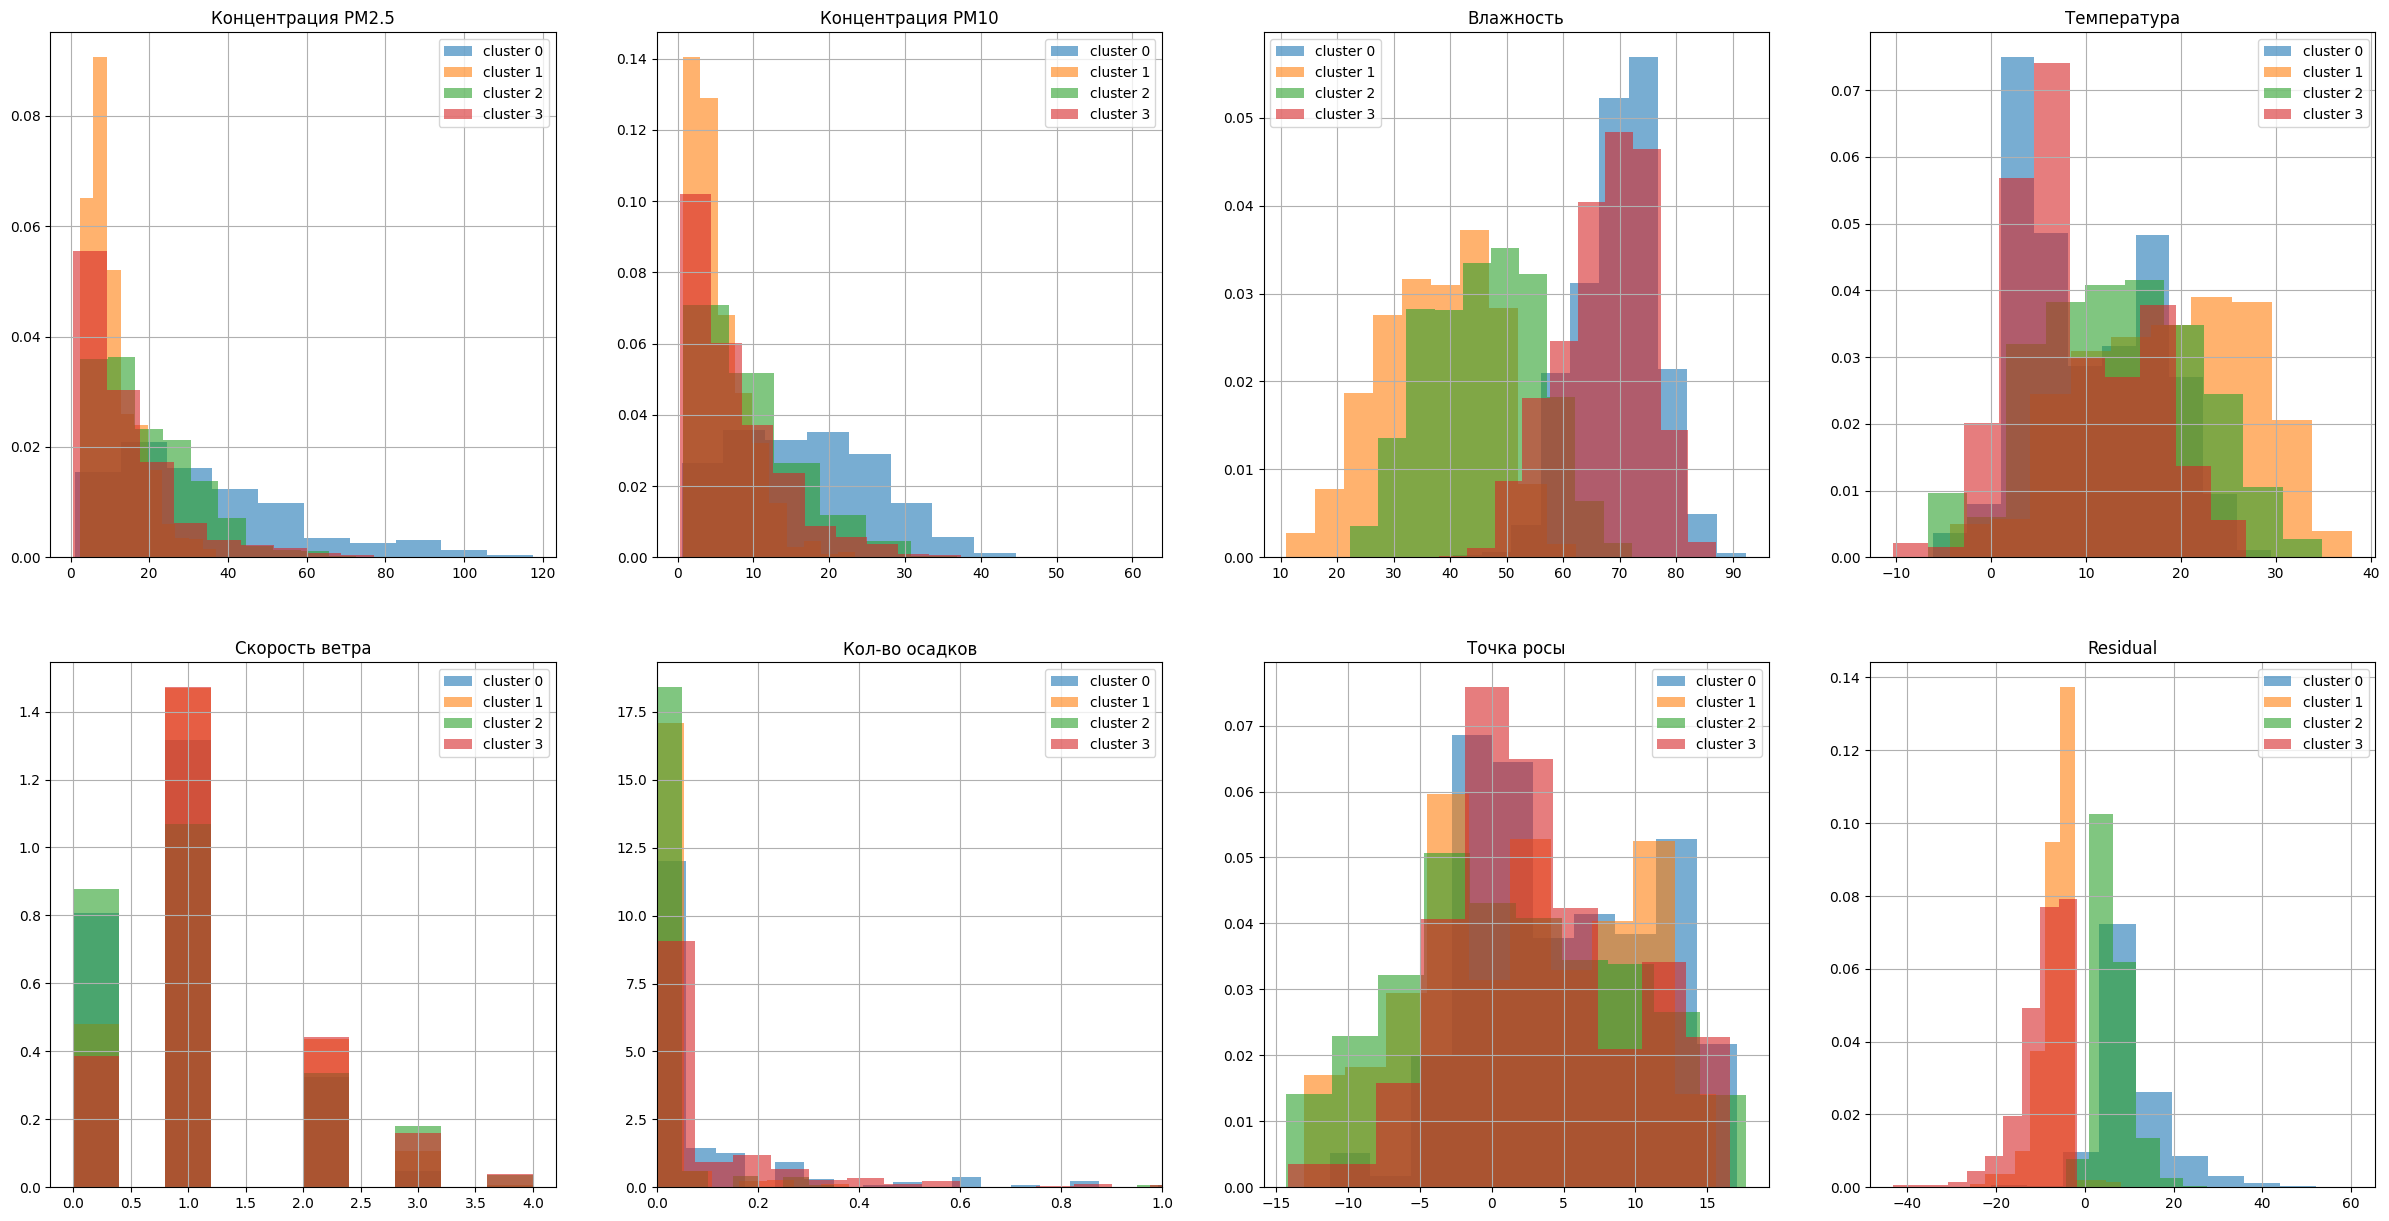
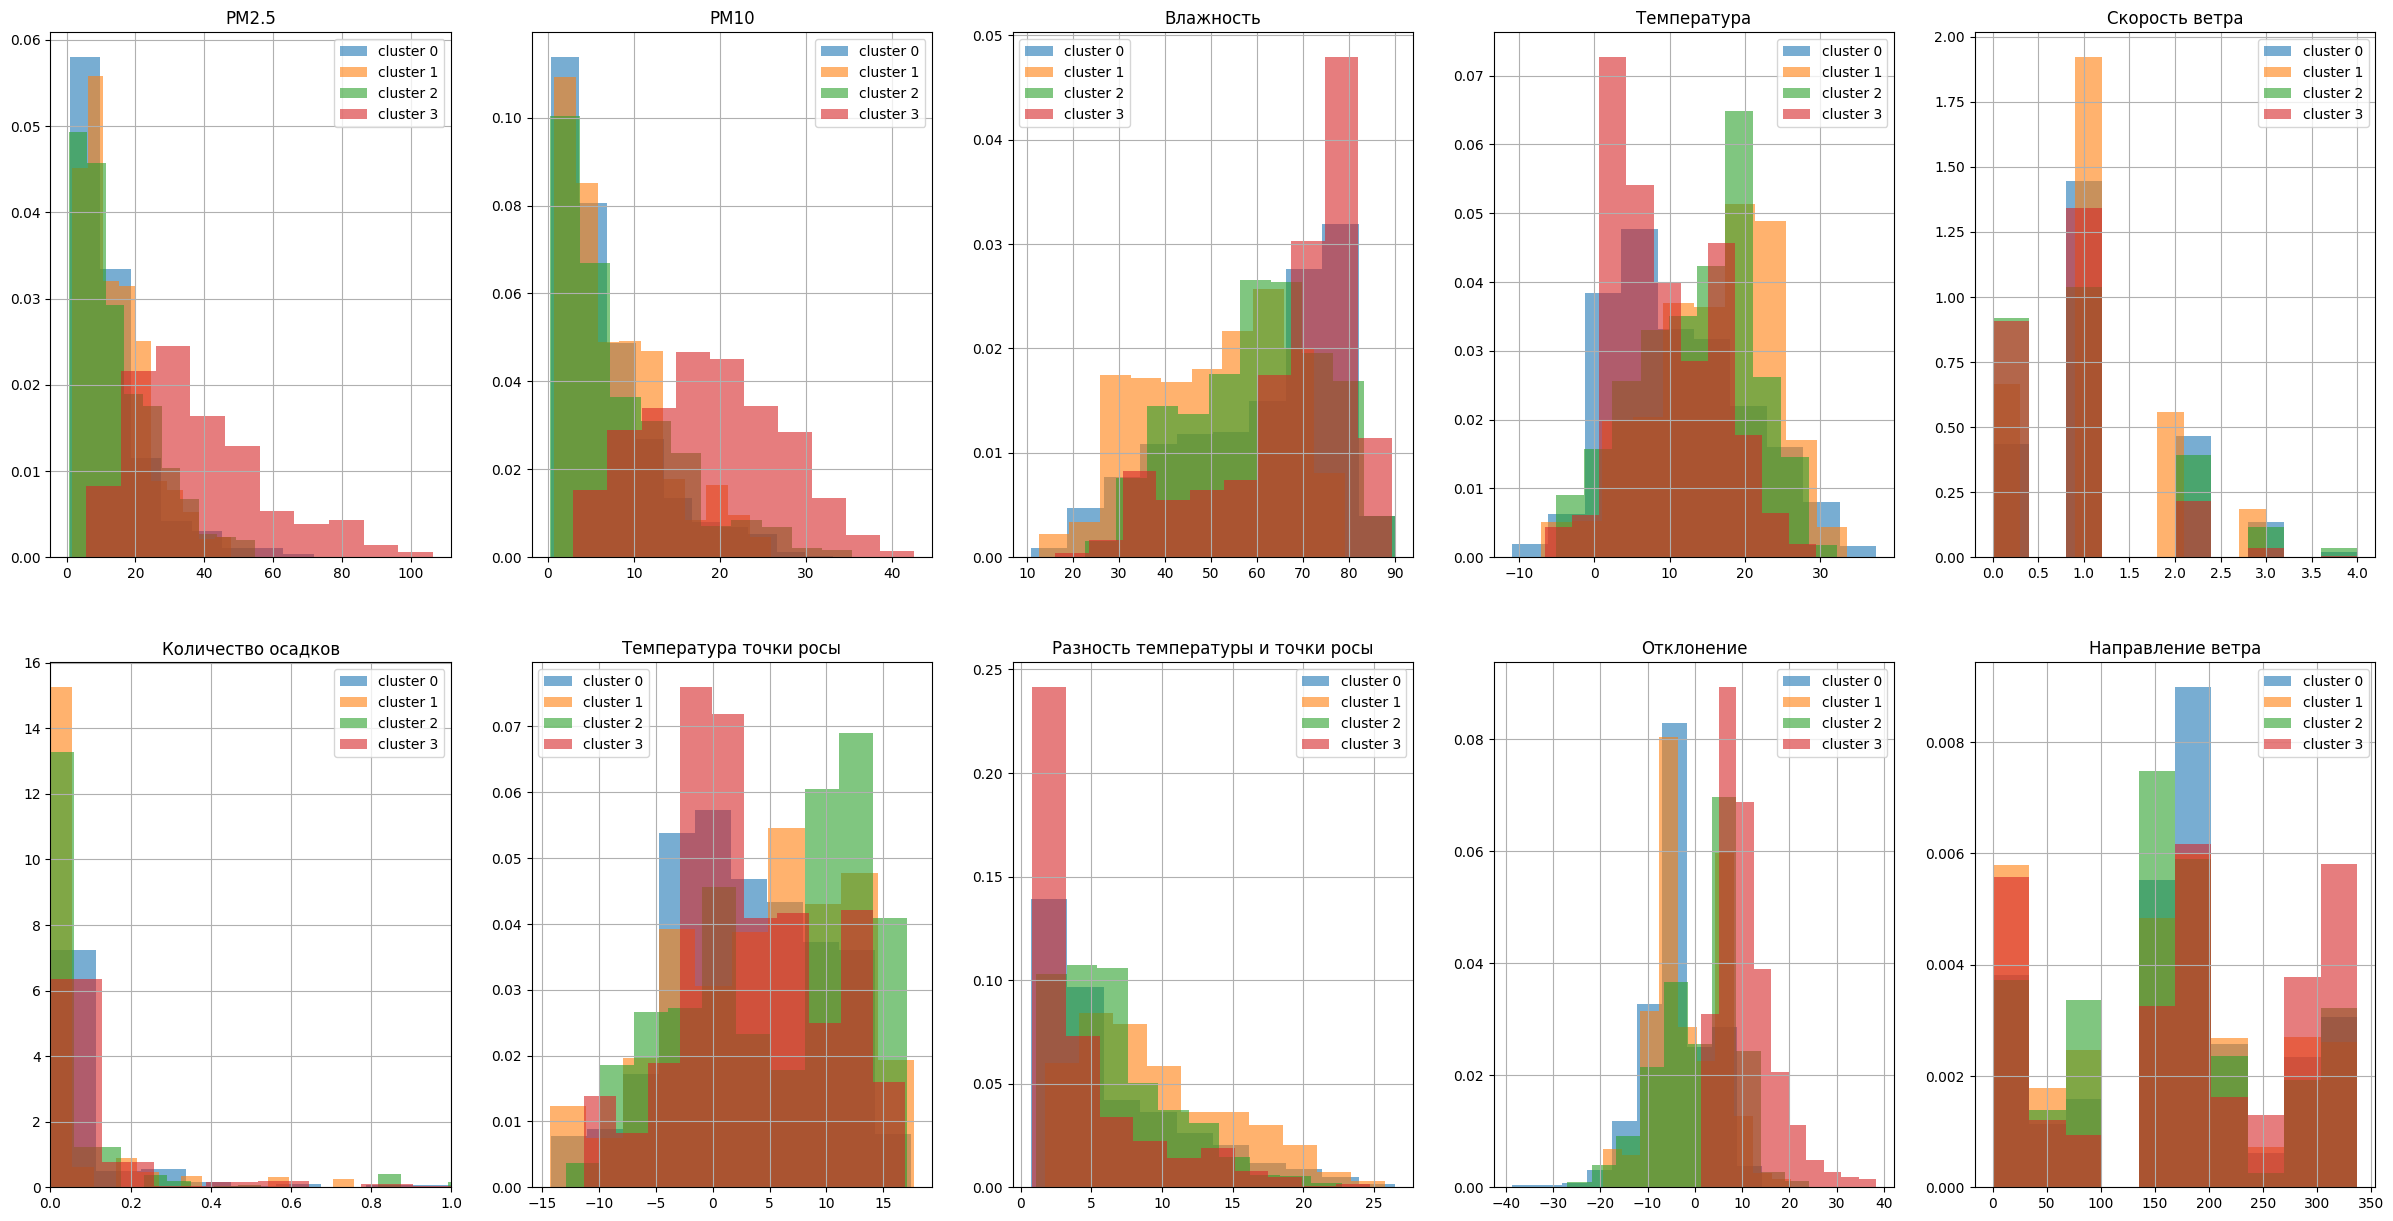
new anomaly extraction

diff --git a/src/model/extract_anomalies.py b/src/model/extract_anomalies.py
@@ -1,35 +1,112 @@
 import pickle
 import pandas as pd
-import datetime
+import matplotlib.pyplot as plt
+from typing import List
 
-from src.model.anom_clustering import AnomalyCluster
-from src.features.preproc_anom import prepare_features
+from src.model.anom_clustering import Model, num_clusters, sensor_columns, meteo_columns
+from src.features.preproc_anom import prepare_sensors_data, prepare_meteo_data
+
+data_file = 'DATA/processed/dataset.csv'
+dim_red_file = 'models/anomalies/dim_red.obj'
+clustering_file = 'models/anomalies/clustering.obj'
+map_file = 'models/anomalies/cluster_map.obj'
 
 
-def extract_anom(data_file: str, pca_model, kmean_model):
-    anom_clustering = AnomalyCluster(kmean_model, pca_model)
+def plot_distribution(anomalies):
+    n_clast = num_clusters
+    f, axs = plt.subplots(2, 5, figsize=(30, 15))
+    for i in range(n_clast):
+        anomalies[anomalies.cluster == i].P1_filtr_mean.hist(ax=axs[0, 0], alpha=0.6, label=f'cluster {i}',
+                                                             density=True)
+    axs[0, 0].set_title('PM2.5')
+    axs[0, 0].legend(loc='best')
+
+    for i in range(n_clast):
+        anomalies[anomalies.cluster == i].P2_filtr_mean.hist(ax=axs[0, 1], alpha=0.6, label=f'cluster {i}',
+                                                             density=True)
+    axs[0, 1].set_title('PM10')
+    axs[0, 1].legend(loc='best')
+
+    for i in range(n_clast):
+        anomalies[anomalies.cluster == i].humidity_filtr_mean.hist(ax=axs[0, 2], alpha=0.6, label=f'cluster {i}',
+                                                                   density=True)
+    axs[0, 2].set_title('Влажность')
+    axs[0, 2].legend(loc='best')
+
+    for i in range(n_clast):
+        anomalies[anomalies.cluster == i].temperature_filtr_mean.hist(ax=axs[0, 3], alpha=0.6, label=f'cluster {i}',
+                                                                      density=True)
+    axs[0, 3].set_title('Температура')
+    axs[0, 3].legend(loc='best')
+
+    for i in range(n_clast):
+        anomalies[anomalies.cluster == i].wind_speed.hist(ax=axs[0, 4], bins=10, alpha=0.6, label=f'cluster {i}',
+                                                          density=True)
+    axs[0, 4].set_title('Скорость ветра')
+    axs[0, 4].legend(loc='best')
+
+    for i in range(n_clast):
+        anomalies[anomalies.cluster == i].prec_amount.hist(ax=axs[1, 0], bins=20, alpha=0.6, label=f'cluster {i}',
+                                                           density=True)
+    axs[1, 0].set_title('Количество осадков')
+    axs[1, 0].set_xlim([0, 1])
+    axs[1, 0].legend(loc='best')
+
+    for i in range(n_clast):
+        anomalies[anomalies.cluster == i].dew_point_temp.hist(ax=axs[1, 1], alpha=0.6, label=f'cluster {i}',
+                                                              density=True)
+    axs[1, 1].set_title('Температура точки росы')
+    axs[1, 1].legend(loc='best')
+
+    for i in range(n_clast):
+        anomalies[anomalies.cluster == i].dew_point_diff.hist(ax=axs[1, 2], alpha=0.6, label=f'cluster {i}',
+                                                              density=True)
+    axs[1, 2].set_title('Разность температуры и точки росы')
+    axs[1, 2].legend(loc='best')
+
+    for i in range(n_clast):
+        anomalies[anomalies.cluster == i].resid.hist(ax=axs[1, 3], alpha=0.6, label=f'cluster {i}', density=True)
+    axs[1, 3].set_title('Отклонение')
+    axs[1, 3].legend(loc='best')
+
+    for i in range(n_clast):
+        anomalies[anomalies.cluster == i].wind_direction.hist(ax=axs[1, 4], alpha=0.6, label=f'cluster {i}',
+                                                              density=True)
+    axs[1, 4].set_title('Направление ветра')
+    axs[1, 4].legend(loc='best')
+    plt.savefig('src/web/client/application/static/images/clusters_distribution.png',
+                clear=True, bbox_inches='tight')
+
+
+def extract_anom(data: pd.DataFrame, model: Model) -> (pd.DataFrame, List[pd.DataFrame]):
+    weeks = [g for n, g in data.groupby(pd.Grouper(freq='7D'))]  # split dataset by 7 days series
+    results = []
+    anom_data = []
+    for week in weeks[:-2]:
+        clusters, anomalies = model.predict(week)
+        results.append(clusters)
+        anom_data += anomalies
+    result = pd.concat(results, axis=0)
+    return result, anom_data
+
+
+def main():
     data = pd.read_csv(data_file, parse_dates=['date'])
     data = data.set_index('date')
-    data = prepare_features(data)
-    anom_list = list()
-    weeks = [g for n, g in data.groupby(pd.Grouper(freq='7D'))]  # split dataset by 7 days series
-    for week in weeks[:-2]:
-        anom = anom_clustering.get_anomaly(week)
-        clusters = anom_clustering.get_clusters(anom)
-        for i in range(len(anom)):
-            anom_list.append({'start_date': anom[i].index[0].to_pydatetime(),
-                              'end_date': anom[i].index[-1].to_pydatetime(),
-                              'cluster': clusters[i]})
-    return anom_list
+    data = prepare_sensors_data(data, sensor_columns)
+    data = prepare_meteo_data(data, meteo_columns)
+    with open(dim_red_file, 'rb') as pca_file, open(clustering_file, 'rb') as km_file, open(map_file, 'rb') as m_file:
+        pca = pickle.load(pca_file)
+        kmean = pickle.load(km_file)
+        cluster_map = pickle.load(m_file)
+        model = Model(pca, kmean, cluster_map)
+    anomalies, anom_data = extract_anom(data, model)
+    anomalies.to_csv('DATA/processed/anomalies.csv', index=False)
+    for i in range(len(anomalies)):
+        anom_data[i]['cluster'] = anomalies.iloc[i]['cluster']
+    anom_data = pd.concat(anom_data, axis=0)
+    plot_distribution(anom_data)
 
 
 if __name__ == '__main__':
-    data_path = 'DATA/processed/dataset.csv'
-    pca_model_file = 'models/pca.obj'
-    kmean_model_file = 'models/kmean.obj'
-    with open(pca_model_file, 'rb') as pca_f, open(kmean_model_file, 'rb') as km_f:
-        km = pickle.load(km_f)
-        pca = pickle.load(pca_f)
-        anomalies = extract_anom(data_path, pca, km)
-        df = pd.DataFrame(anomalies)
-        df.to_csv('DATA/processed/anomalies.csv', index=False)
+    main()

diff --git a/src/model/anom_clustering.py b/src/model/anom_clustering.py
@@ -6,7 +6,7 @@ import numpy as np
 from sklearn.decomposition import PCA
 from sklearn.cluster import KMeans
 from sklearn.metrics import silhouette_score
-import typing
+from typing import List
 import warnings
 
 from src.features.preproc_anom import prepare_meteo_data, prepare_sensors_data, add_features
@@ -34,7 +34,7 @@ PCA_n_components = 3
 num_clusters = 4
 
 
-def anom_detector(time_series: pd.DataFrame, freq=round(60 * 25 / 5), quant=0.85) -> typing.List[pd.DataFrame]:
+def anom_detector(time_series: pd.DataFrame, freq=round(60 * 25 / 5), quant=0.85) -> List[pd.DataFrame]:
     """
     Anomaly detection by time-series decomposition.
     :param time_series: to series for anomaly search
@@ -65,7 +65,7 @@ def anom_detector(time_series: pd.DataFrame, freq=round(60 * 25 / 5), quant=0.85
     return ls
 
 
-def detect_anomalies(data: pd.DataFrame) -> typing.List[pd.DataFrame]:
+def detect_anomalies(data: pd.DataFrame) -> List[pd.DataFrame]:
     """
     Anomaly detection by time series decomposition
     :param data: preprocessed data (see src/features/prerpoc_anom.py)
@@ -81,7 +81,7 @@ def detect_anomalies(data: pd.DataFrame) -> typing.List[pd.DataFrame]:
     return anom_list
 
 
-def get_anomaly_features(anom_list: typing.List[pd.DataFrame]) -> pd.DataFrame:
+def get_anomaly_features(anom_list: List[pd.DataFrame]) -> pd.DataFrame:
     anomdata = pd.DataFrame(index=[i for i in range(len(anom_list))])
     anomdata['resid_change'] = [i.loc[i.resid.abs().idxmax()].resid -
                                 i.loc[i.resid.abs().idxmin()].resid for i in anom_list]
@@ -158,7 +158,7 @@ class Model:
         data = add_features(data)
         return data[sel_columns]
 
-    def predict(self, data: pd.DataFrame) -> pd.DataFrame:
+    def predict(self, data: pd.DataFrame) -> (pd.DataFrame, List[pd.DataFrame]):
         data = self._prepare_data(data)
         anomalies = anom_detector(data)
         anom_fetures = get_anomaly_features(anomalies)
@@ -168,7 +168,7 @@ class Model:
         end_dates = [anomalies[i].index[-1].to_pydatetime() for i in range(len(anomalies))]
         result = pd.DataFrame(data={'start_date': start_dates, 'end_date': end_dates, 'cluster': clusters})
         result['cluster'] = result.cluster.map(self.cluster_map)
-        return result
+        return result, anomalies
 
 
 def main():
